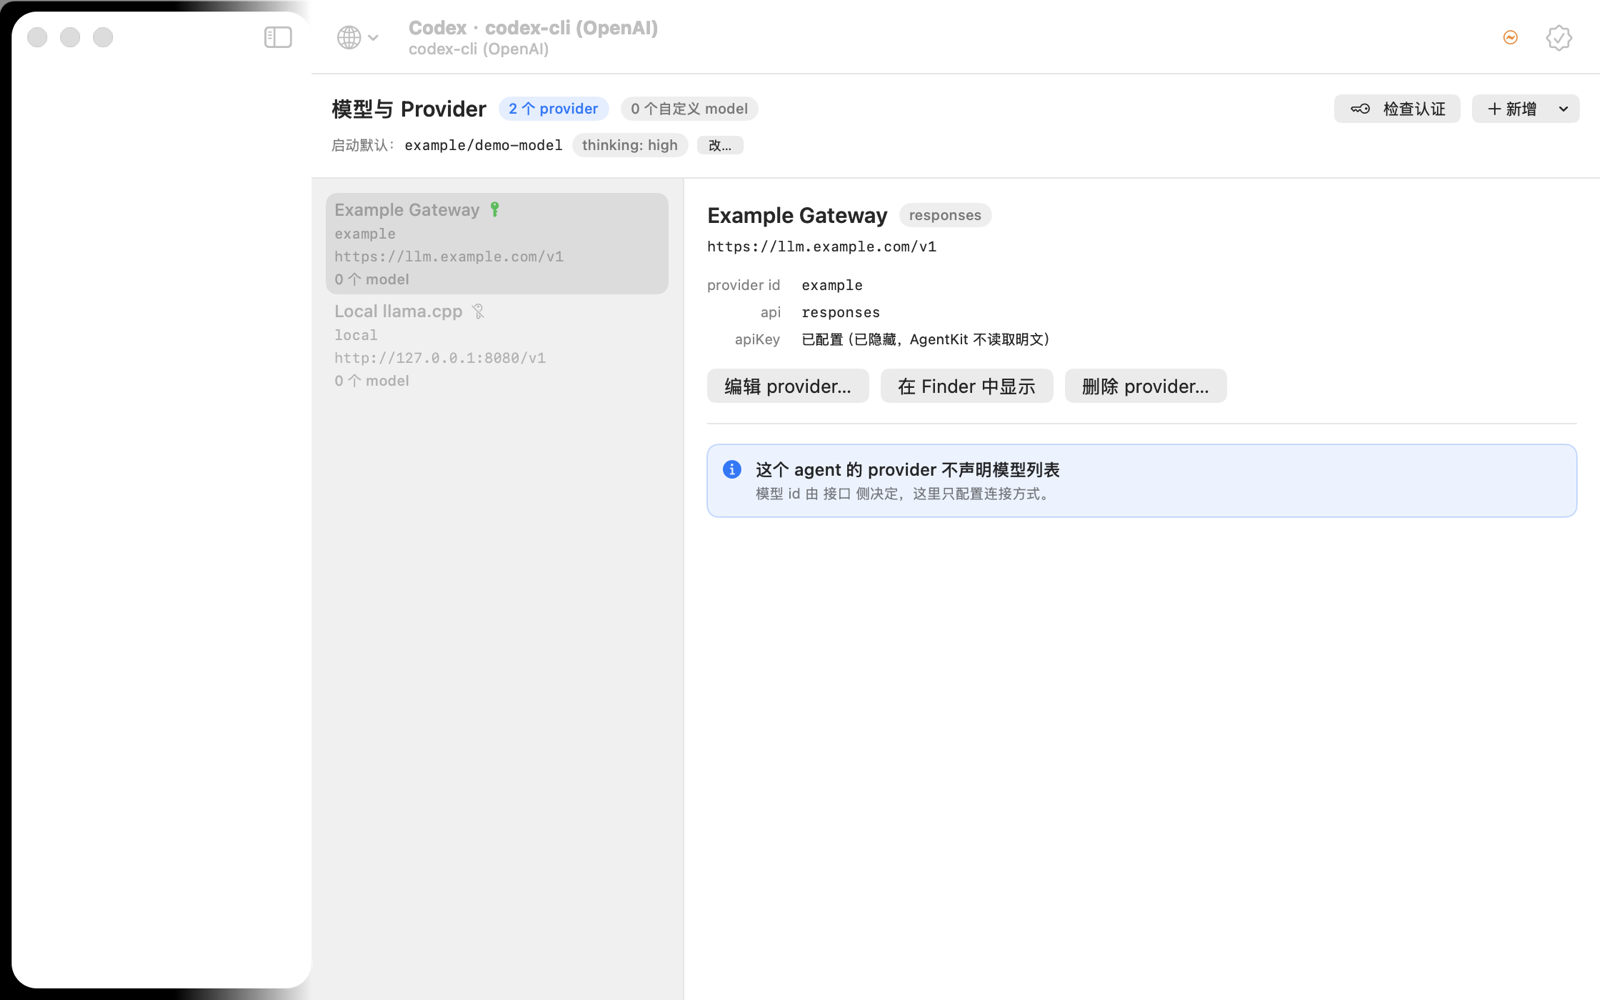
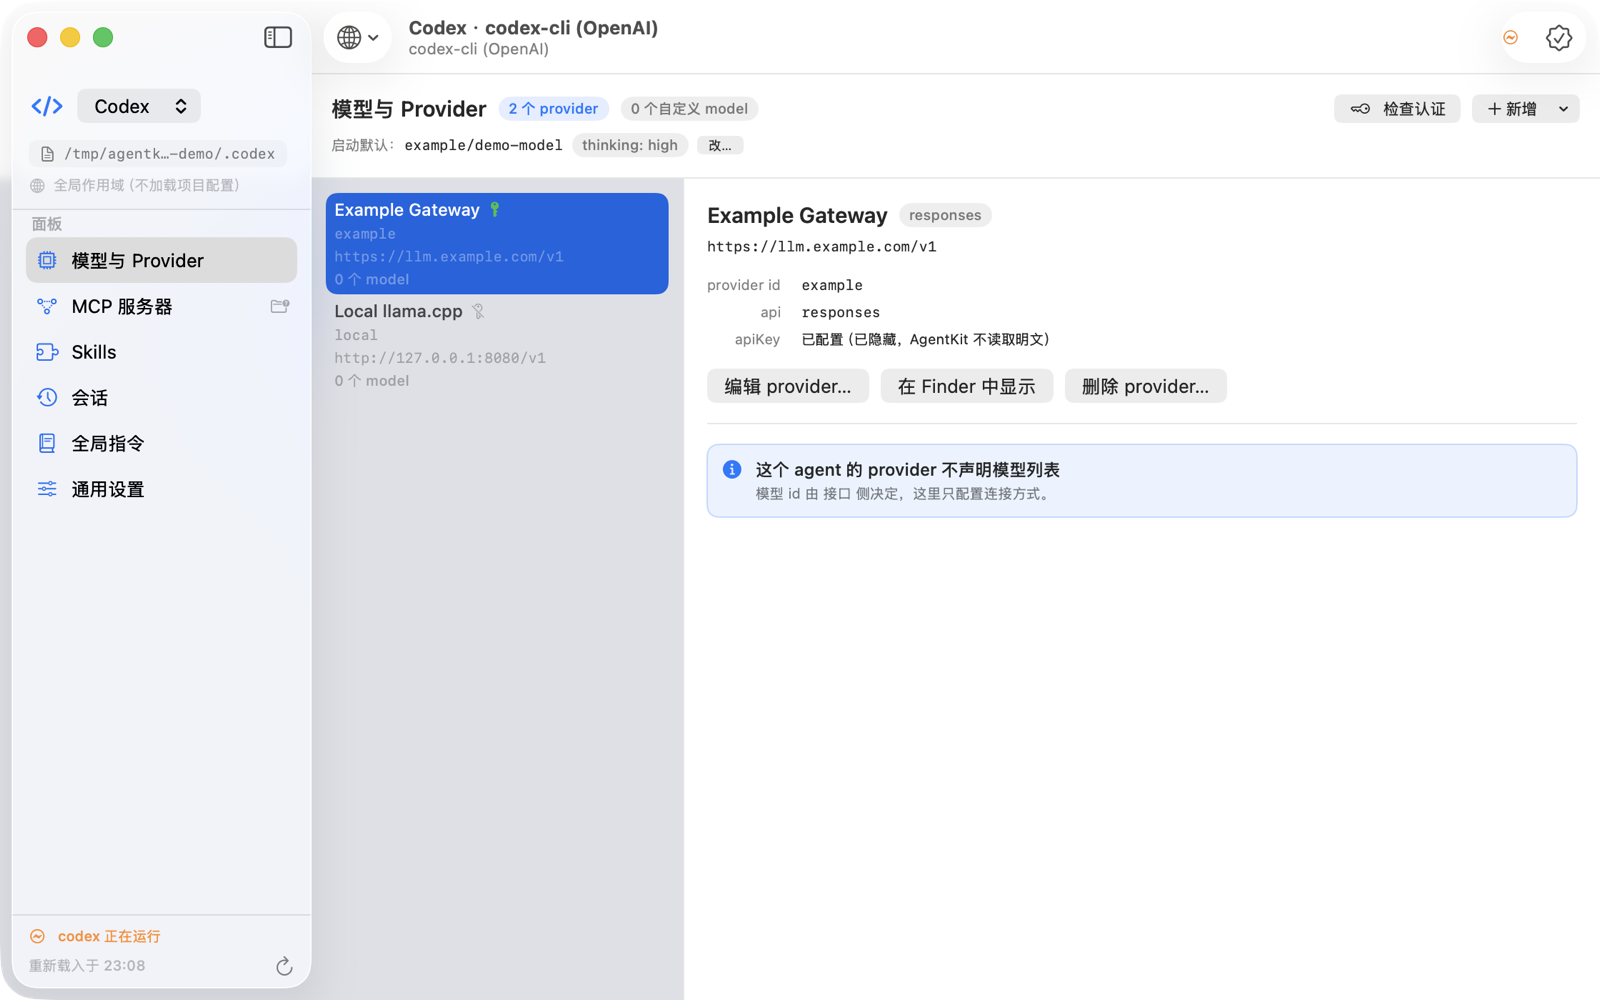
修截图：App 侧栏整列是空的
你指出的那个问题是真的。12 张图的侧栏区域字节数完全一致（3794），全是空白 ——
也就是说每一张的左侧都是空的，设置面板的分区列表被顶到了侧栏的位置。

根因是我上一版选的抓图方式：让 App 自己渲染视图层级（CALayer.render）看起来
很美 —— 不需要录屏权限、不需要窗口在前台 —— 但它拿不到侧栏，侧栏是用
NSVisualEffectView 画的，材质由窗口服务器合成，不在图层树里。结果是得到一张
"看起来很正常、左边少一列"的截图。**会静默丢内容的工具不能用**，所以这条路撤了。

改回 screencapture，并且把踩过的坑都堵上：

- 补上验收检查：裁出侧栏区域，空白（<6KB）就判定失败并重试。这次是机器在替我
  看，而不是我自己扫一眼就算过 —— 上一版就是我自己没看出来
- 串行化 App 实例（windowid -o 会列出已死实例的窗口，抓到正在退出的那个）
- 只用当前屏上的窗口，失败重试三次

顺带修了一个真实校验缺口：`description:` 后面留空会解析成空字符串，而校验只检查
"字段不存在"，于是这个 skill 被判为健康 —— 面板会把它当成默认选中项。现在空值、
纯空白都算缺失，新增 5 项断言。截图里它现在带警告图标，顶部也有「1 个有问题」。

测试 565 → 570。

Changed region(s): [[0.0, 0.0, 0.4375, 1.0], [0.0625, 0.093, 0.0938, 0.124]]

diff --git a/Sources/App/DocumentationState.swift b/Sources/App/DocumentationState.swift
@@ -17,7 +17,6 @@
 
 import AppKit
 import Foundation
-import QuartzCore
 
 enum DocumentationState {
 	/// Parsed once: `key:value` pairs separated by commas, a bare `key` meaning "on".
@@ -34,53 +33,6 @@ enum DocumentationState {
 
 	static func isOn(_ key: String) -> Bool { values[key] != nil }
 	static func string(_ key: String) -> String? { values[key] }
-
-	/// `snapshot:/path/to.png` writes the window to a PNG and quits.
-	///
-	/// Rendered by the app itself rather than captured with `screencapture`,
-	/// which needs Screen Recording permission for anything narrower than the
-	/// whole display — and which cannot see a window that is not on the active
-	/// Space. Asking AppKit to draw its own view hierarchy needs neither, so the
-	/// screenshots can be regenerated on any machine, headless, in CI.
-	static func writeSnapshot(to path: String) {
-		let window = NSApp.windows
-			.filter { $0.contentView != nil && $0.frame.width > 400 }
-			.max { $0.frame.width * $0.frame.height < $1.frame.width * $1.frame.height }
-		guard let window, let content = window.contentView else {
-			FileHandle.standardError.write(Data("no window to snapshot\n".utf8))
-			return
-		}
-		// The theme frame, not the content view: it includes the title bar, which
-		// is what makes the picture recognisable as a macOS window.
-		let view = content.superview ?? content
-		guard let rep = view.bitmapImageRepForCachingDisplay(in: view.bounds) else { return }
-
-		// `cacheDisplay(in:to:)` walks `draw(_:)`, which a layer-backed SwiftUI
-		// hierarchy does not use — it produced shifted, half-empty frames. The
-		// layer tree is the real content, so render that.
-		if let layer = view.layer {
-			NSGraphicsContext.saveGraphicsState()
-			if let context = NSGraphicsContext(bitmapImageRep: rep) {
-				NSGraphicsContext.current = context
-				layer.render(in: context.cgContext)
-			}
-			NSGraphicsContext.restoreGraphicsState()
-		} else {
-			view.cacheDisplay(in: view.bounds, to: rep)
-		}
-
-		guard let data = rep.representation(using: .png, properties: [:]) else { return }
-		do {
-			try data.write(to: URL(fileURLWithPath: path))
-		} catch {
-			FileHandle.standardError.write(Data("snapshot failed: \(error)\n".utf8))
-		}
-	}
-
-	/// Seconds to wait before the snapshot, so the first scan has finished.
-	static var snapshotDelay: TimeInterval {
-		Double(values["snapshot_delay"] ?? "") ?? 6
-	}
 
 	/// True when any state was requested, so callers can skip the work entirely.
 	static var isActive: Bool { !values.isEmpty }

diff --git a/Tests/main.swift b/Tests/main.swift
@@ -1626,6 +1626,52 @@ do {
 	equal(unterminated.count, 1, "未闭合的代码围栏也产出代码块")
 }
 
+group("skill 校验：description")
+
+do {
+	let root = fixtureRoot.appendingPathComponent("desc/skills")
+	let descriptor = try JSONDecoder().decode(
+		AgentDescriptor.self,
+		from: Data(try String(contentsOf: URL(fileURLWithPath: #filePath)
+			.deletingLastPathComponent()
+			.deletingLastPathComponent()
+			.appendingPathComponent("Resources/Agents/pi.json")).utf8)
+	)
+	let surface = descriptor.surface(id: "skills")!
+
+	func scan(_ name: String, _ frontmatter: String) -> SkillEntry? {
+		let directory = root.appendingPathComponent(name)
+		try? FileManager.default.createDirectory(at: directory, withIntermediateDirectories: true)
+		try? frontmatter.write(to: directory.appendingPathComponent("SKILL.md"), atomically: true, encoding: .utf8)
+		let snapshot = SkillsScanner.scan(
+			roots: [(spec: RootEntry(path: root.path, scope: "user", writable: true), url: root)],
+			ignore: Set(surface.ignore ?? []),
+			maxDepth: surface.maxDepth ?? 4,
+			policy: descriptor.backupPolicy
+		)
+		return snapshot.skills.first { $0.name == name }
+	}
+
+	let missing = scan("missing-desc", "---\nname: missing-desc\n---\n\n正文\n")
+	check(missing?.issues.isEmpty == false, "完全没有 description 会被报出来")
+
+	// `description:` with nothing after it parses to an empty string. It used to
+	// pass validation, which meant the pane offered a skill pi cannot use as its
+	// healthy default.
+	let empty = scan("empty-desc", "---\nname: empty-desc\ndescription:\n---\n\n正文\n")
+	check(empty?.issues.isEmpty == false, "空的 description 同样会被报出来")
+	check(
+		empty?.issues.contains { $0.contains("description") } == true,
+		"并且说清楚是 description 的问题"
+	)
+
+	let blank = scan("blank-desc", "---\nname: blank-desc\ndescription: \"   \"\n---\n\n正文\n")
+	check(blank?.issues.isEmpty == false, "只有空白的 description 也算缺失")
+
+	let good = scan("good-desc", "---\nname: good-desc\ndescription: Does a thing.\n---\n\n正文\n")
+	check(good?.issues.isEmpty == true, "正常的 description 没问题")
+}
+
 group("随包文件：结构化列表数据")
 
 do {

diff --git a/Sources/Surfaces/SkillsSurface.swift b/Sources/Surfaces/SkillsSurface.swift
@@ -129,7 +129,11 @@ public struct SkillEntry: Identifiable {
 	public var issues: [String] {
 		var out: [String] = []
 		if !document.isReadable { out.append(document.problemReason ?? "文件无法读取") }
-		if frontmatter.string("description") == nil {
+		// An empty value is as unusable as an absent one: `description:` with
+		// nothing after it parses to "", and pi has nothing to match a request
+		// against. Treating that as valid meant a broken skill was picked as the
+		// healthy default.
+		if frontmatter.string("description")?.trimmingCharacters(in: .whitespacesAndNewlines).isEmpty ?? true {
 			out.append("缺少 description：pi 不会加载这个 skill")
 		} else if description.count > 1024 {
 			out.append("description 超过 1024 字符")

diff --git a/Sources/App/AgentKitApp.swift b/Sources/App/AgentKitApp.swift
@@ -47,12 +47,6 @@ final class AppDelegate: NSObject, NSApplicationDelegate {
 		{
 			window.setFrame(NSRect(origin: window.frame.origin, size: size), display: true)
 		}
-		if let path = DocumentationState.string("snapshot"), path != "1" {
-			DispatchQueue.main.asyncAfter(deadline: .now() + DocumentationState.snapshotDelay) {
-				DocumentationState.writeSnapshot(to: path)
-				NSApp.terminate(nil)
-			}
-		}
 		Log.app.info("AgentKit launched")
 	}
 
